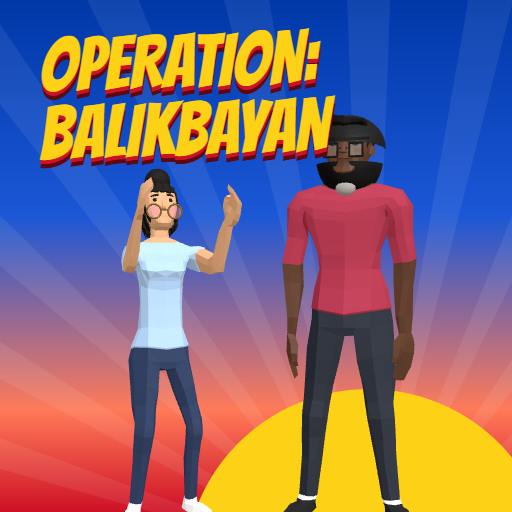
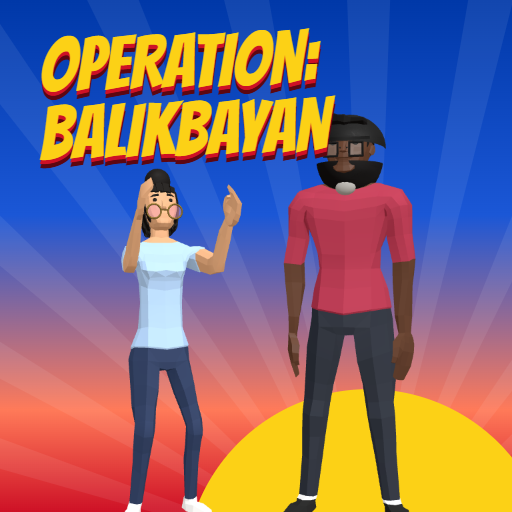
Use 'Mia and Monami' wording everywhere, new share image

diff --git a/index.html b/index.html
@@ -3,15 +3,15 @@
 <head>
 <meta charset="utf-8">
 <meta name="viewport" content="width=device-width,initial-scale=1,maximum-scale=1,user-scalable=no,viewport-fit=cover">
-<title>Operation: Balikbayan | Mia &amp; Monami</title>
+<title>Operation: Balikbayan | Mia and Monami</title>
 <meta name="description" content="A ten-mission adventure starring Mia and Monami. Splash the catfish, slipper the red flags, win over the family.">
 <meta property="og:title" content="Operation: Balikbayan">
 <meta property="og:description" content="Play as Mia or Monami: two stories, twenty missions, one long-distance love. Free in your browser.">
 <meta property="og:type" content="website">
 <meta property="og:url" content="https://operationbalikbayan.miaandmonami.com/">
-<meta property="og:site_name" content="Mia &amp; Monami">
-<meta property="og:image" content="https://operationbalikbayan.miaandmonami.com/og.jpg">
-<meta property="og:image:secure_url" content="https://operationbalikbayan.miaandmonami.com/og.jpg">
+<meta property="og:site_name" content="Mia and Monami">
+<meta property="og:image" content="https://operationbalikbayan.miaandmonami.com/og-v2.jpg">
+<meta property="og:image:secure_url" content="https://operationbalikbayan.miaandmonami.com/og-v2.jpg">
 <meta property="og:image:type" content="image/jpeg">
 <meta property="og:image:width" content="1200">
 <meta property="og:image:height" content="630">
@@ -19,7 +19,7 @@
 <meta name="twitter:card" content="summary_large_image">
 <meta name="twitter:title" content="Operation: Balikbayan">
 <meta name="twitter:description" content="Play as Mia or Monami: two stories, twenty missions, one long-distance love.">
-<meta name="twitter:image" content="https://operationbalikbayan.miaandmonami.com/og.jpg">
+<meta name="twitter:image" content="https://operationbalikbayan.miaandmonami.com/og-v2.jpg">
 <link rel="icon" href="og-square.png">
 <link href="https://fonts.googleapis.com/css2?family=Bangers&family=Nunito:wght@600;800&display=swap" rel="stylesheet">
 <style>:root{color-scheme:dark}
@@ -169,7 +169,7 @@ button.small{font-size:16px;padding:8px 16px;border-radius:10px}
 </div>
 
 <div id="scrTitle" class="screen bgsun">
-  <h1 class="logo"><small>MIA &amp; MONAMI IN</small>OPERATION:<br>BALIKBAYAN</h1>
+  <h1 class="logo"><small>MIA AND MONAMI IN</small>OPERATION:<br>BALIKBAYAN</h1>
   <div id="previewWrap"></div>
   <p class="tag">8,000 miles. One airport, one fiesta, one videoke machine, one typhoon and one visa interview stand between them.</p>
   <div class="row"><button id="btnPlay">START CAMPAIGN</button><button id="btnHow" class="alt">HOW TO PLAY</button></div>
@@ -228,7 +228,7 @@ button.small{font-size:16px;padding:8px 16px;border-radius:10px}
   <p class="tag">Same time zone at last. Wherever you both are &mdash; that's home.<br><b>Salamat for playing!</b></p>
   <div class="row"><button id="btnEndMenu">BACK TO MISSIONS</button></div>
 </div>
-<div id="loading" class="screen bgsun"><h1 class="logo"><small>MIA &amp; MONAMI IN</small>OPERATION:<br>BALIKBAYAN</h1><p class="tag" style="font-size:22px"><b>Loading the world&hellip;</b></p></div>
+<div id="loading" class="screen bgsun"><h1 class="logo"><small>MIA AND MONAMI IN</small>OPERATION:<br>BALIKBAYAN</h1><p class="tag" style="font-size:22px"><b>Loading the world&hellip;</b></p></div>
 <div id="err"></div>
 
 <script src="https://cdnjs.cloudflare.com/ajax/libs/three.js/r128/three.min.js"></script>
@@ -1627,7 +1627,7 @@ const _vb=VM.build;VM.build=function(c){_vb.call(this,c);if(G.save.gold&&this.sl
 // ---------- prize ----------
 function prizeCode(){const n=(G.save.name||'PLAYER').toUpperCase(),t=totalScore();let h=7;for(const ch of n+t)h=(h*31+ch.charCodeAt(0))%1679616;return 'MM-'+('0000'+h.toString(36).toUpperCase()).slice(-4)+'-'+('000'+(t%1000)).slice(-3);}
 const _end=showEnding;showEnding=function(){_end();let c=$('cert');if(!c){c=document.createElement('div');c.id='cert';c.className='panel';c.style.cssText='max-width:560px;padding:16px 26px';$('scrEnd').insertBefore(c,$('scrEnd').lastElementChild);}
-  c.innerHTML='<div class="disp" style="font-size:26px;color:#fcd116">GRAND PRIZE: CERTIFICATE OF APPROVAL</div><div style="font-size:17px;margin:6px 0">Awarded to <b id="certName"></b> for completing all 10 missions</div><div style="font-size:17px">Total score <b style="color:#fcd116">'+totalScore().toLocaleString()+'</b></div><div class="disp" style="font-size:34px;letter-spacing:.12em;margin-top:6px;color:#ff7ab8">'+prizeCode()+'</div><div style="font-size:13px;opacity:.8">Screenshot this code to claim your prize from Mia &amp; Monami.</div>';
+  c.innerHTML='<div class="disp" style="font-size:26px;color:#fcd116">GRAND PRIZE: CERTIFICATE OF APPROVAL</div><div style="font-size:17px;margin:6px 0">Awarded to <b id="certName"></b> for completing all 10 missions</div><div style="font-size:17px">Total score <b style="color:#fcd116">'+totalScore().toLocaleString()+'</b></div><div class="disp" style="font-size:34px;letter-spacing:.12em;margin-top:6px;color:#ff7ab8">'+prizeCode()+'</div><div style="font-size:13px;opacity:.8">Screenshot this code to claim your prize from Mia and Monami.</div>';
   $('certName').textContent=G.save.name||'Player';};
 // ---------- scoreboard + leaderboard ----------
 const Board={db:null,uid:null,rows:null,
